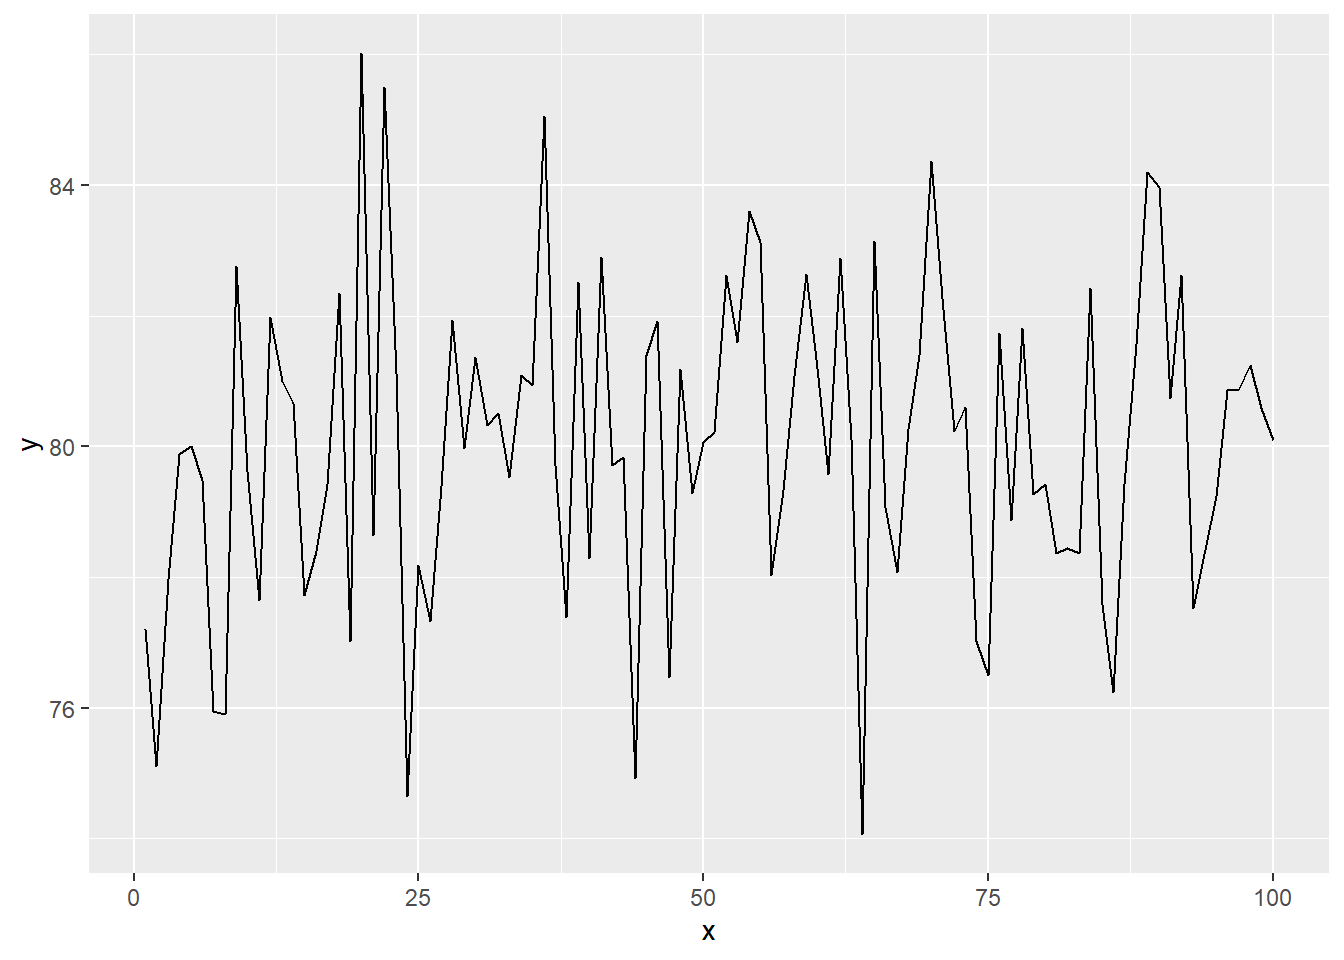
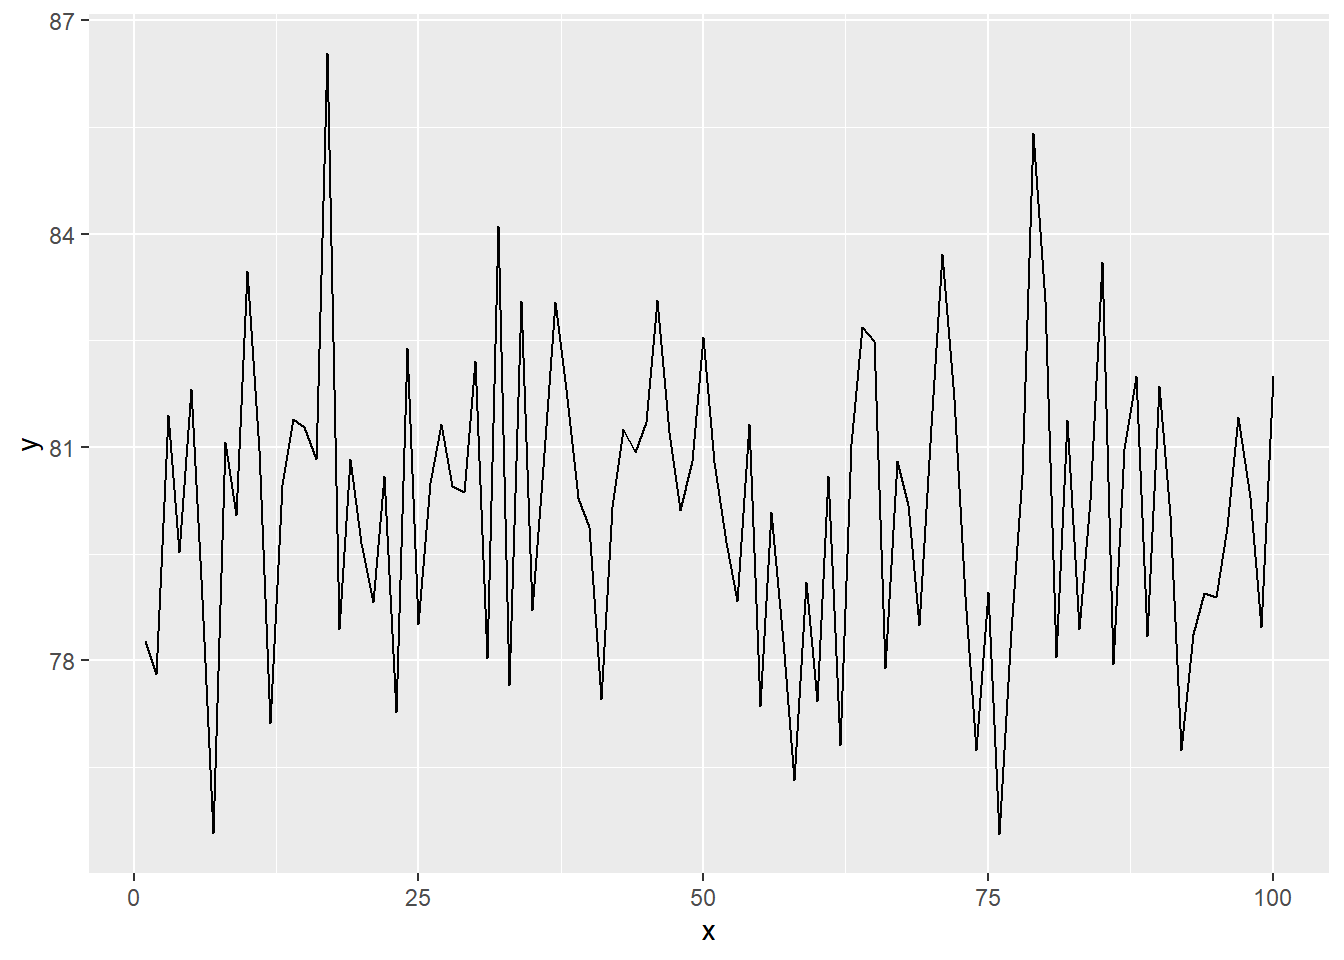
up

diff --git a/content/work/2022-01-11-sampling-technique/index.zh.html b/content/work/2022-01-11-sampling-technique/index.zh.html
@@ -11,27 +11,27 @@ description: 抽样技术(持续更新中...)
 <script src="{{< blogdown/postref >}}index.zh_files/header-attrs/header-attrs.js"></script>
 
 
-<p>《抽样技术》（第五版）/金勇进、杜子芳、蒋妍 编著</p>
-<p>实践题 个人答案</p>
-<p>第一章 绪论</p>
+<p><em>《抽样技术》（第五版）/金勇进、杜子芳、蒋妍 编著</em></p>
+<p><em>实践题 个人答案</em></p>
+<p><strong>第一章 绪论</strong></p>
 <pre class="r"><code>x &lt;- runif(100000,60,100)</code></pre>
 <pre class="r"><code>y &lt;- sample(x,size = 30)
 mean(y)</code></pre>
-<pre><code>## [1] 79.4514</code></pre>
+<pre><code>## [1] 78.04808</code></pre>
 <pre class="r"><code>(z &lt;- replicate(100,mean(sample(x,size = 30))))</code></pre>
-<pre><code>##   [1] 77.19868 75.11292 77.96023 79.88148 79.99884 79.48370 75.94411 75.89833
-##   [9] 82.75184 79.62022 77.65059 81.97389 80.99021 80.66679 77.71517 78.39911
-##  [17] 79.41980 82.34764 77.02041 86.01500 78.64364 85.49074 81.12665 74.63886
-##  [25] 78.18183 77.32656 79.38904 81.93323 79.97038 81.36270 80.32967 80.51505
-##  [33] 79.53138 81.09207 80.93645 85.04625 79.71772 77.39116 82.50835 78.28227
-##  [41] 82.89921 79.71735 79.83635 74.92283 81.39917 81.91845 76.46286 81.17458
-##  [49] 79.28726 80.05657 80.21928 82.62682 81.59577 83.60023 83.12427 78.03542
-##  [57] 79.33075 81.07514 82.62959 81.19117 79.58055 82.88390 80.11088 74.05892
-##  [65] 83.13723 79.07430 78.07993 80.26503 81.39599 84.35807 82.26730 80.23138
-##  [73] 80.60586 77.01244 76.50250 81.72974 78.87183 81.80136 79.27091 79.42625
-##  [81] 78.35894 78.43573 78.36607 82.42184 77.58313 76.23375 79.42608 81.57069
-##  [89] 84.19920 83.96688 80.72992 82.62387 77.51979 78.35477 79.23957 80.86541
-##  [97] 80.86130 81.24000 80.59030 80.09884</code></pre>
+<pre><code>##   [1] 78.27338 77.80727 81.44558 79.52614 81.82126 78.86943 75.56688 81.06568
+##   [9] 80.04817 83.48080 80.95756 77.11802 80.46513 81.40156 81.28620 80.82748
+##  [17] 86.53907 78.44199 80.83915 79.65465 78.82091 80.59580 77.28112 82.38687
+##  [25] 78.50844 80.48926 81.33099 80.45904 80.36915 82.21671 78.02828 84.11465
+##  [33] 77.65465 83.05055 78.70642 80.91932 83.04729 81.81834 80.28494 79.87324
+##  [41] 77.45758 80.15871 81.25844 80.93301 81.35444 83.06944 81.21512 80.11890
+##  [49] 80.80010 82.55186 80.78377 79.67250 78.83590 81.32243 77.36009 80.08589
+##  [57] 78.26967 76.32081 79.09970 77.42539 80.59384 76.81658 81.04964 82.69430
+##  [65] 82.49343 77.89890 80.80271 80.18693 78.49589 81.29153 83.71779 81.67537
+##  [73] 78.90384 76.73926 78.95835 75.55452 78.40880 80.60081 85.41461 83.05253
+##  [81] 78.04605 81.37708 78.44399 80.26264 83.60677 77.95213 80.98001 81.99811
+##  [89] 78.35035 81.85433 80.04094 76.73569 78.36729 78.95276 78.89452 79.88030
+##  [97] 81.42856 80.30403 78.46371 82.00293</code></pre>
 <pre class="r"><code>data &lt;- data.frame(
   x = 1:100,
   y = z
@@ -45,10 +45,10 @@ ggplot(data = data,mapping = aes(x = x,y = y)) +
   d_sd = sd(data$y)
 ))</code></pre>
 <pre><code>## $d_mean
-## [1] 80.03917
+## [1] 80.16777
 ## 
 ## $d_sd
-## [1] 2.407811</code></pre>
+## [1] 2.081497</code></pre>
 <pre class="r"><code>#写一个函数吧！
 func &lt;- function(n){
   z &lt;- replicate(100,mean(sample(x,size = n)))
@@ -63,19 +63,19 @@ func &lt;- function(n){
 }
 func(n = 300)</code></pre>
 <pre><code>## $d_mean
-## [1] 80.03777
+## [1] 79.96439
 ## 
 ## $d_sd
-## [1] 0.7293346</code></pre>
+## [1] 0.7138977</code></pre>
 <pre class="r"><code>func(n = 1000)</code></pre>
 <pre><code>## $d_mean
-## [1] 79.98659
+## [1] 79.94888
 ## 
 ## $d_sd
-## [1] 0.3473152</code></pre>
+## [1] 0.3644136</code></pre>
 <p>标准差是抽样误差的一种表现形式；在其他条件相同的情况下，样本量越大，抽样误差越小。</p>
 <p>以上均为课本原话，与试验结果相符</p>
-<p>第二章 简单随机抽样</p>
+<p><strong>第二章 简单随机抽样</strong></p>
 <p><a href="http://www.crup.com.cn/DownResource/DownFile?id=165cef6b-b3c4-480e-ab96-d9dcce34e868">《企业案例数据》数据集</a></p>
 <div class="figure">
 <img src="images/go%20to%20sleep.gif" alt="" />
